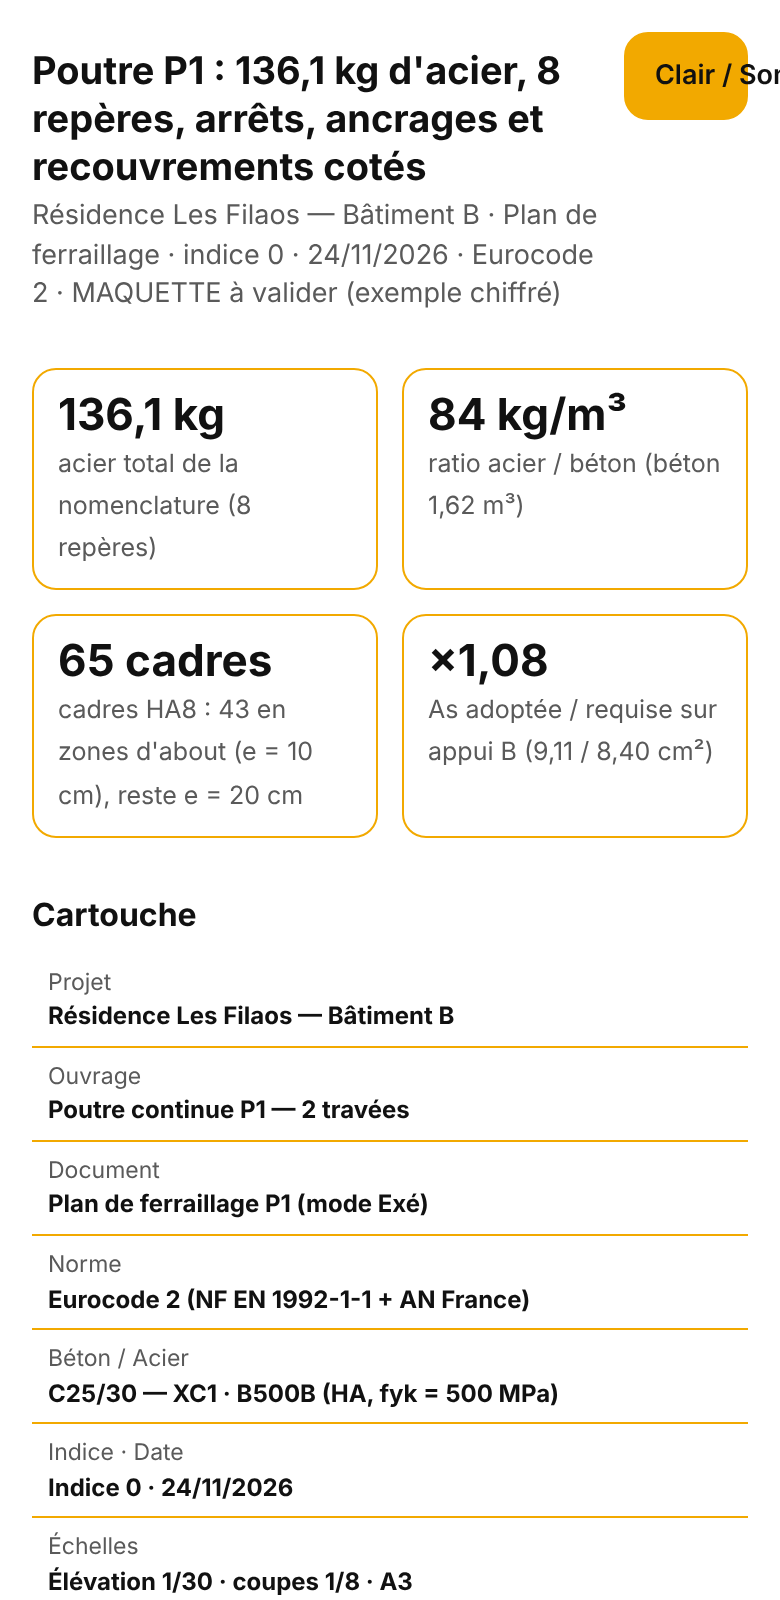
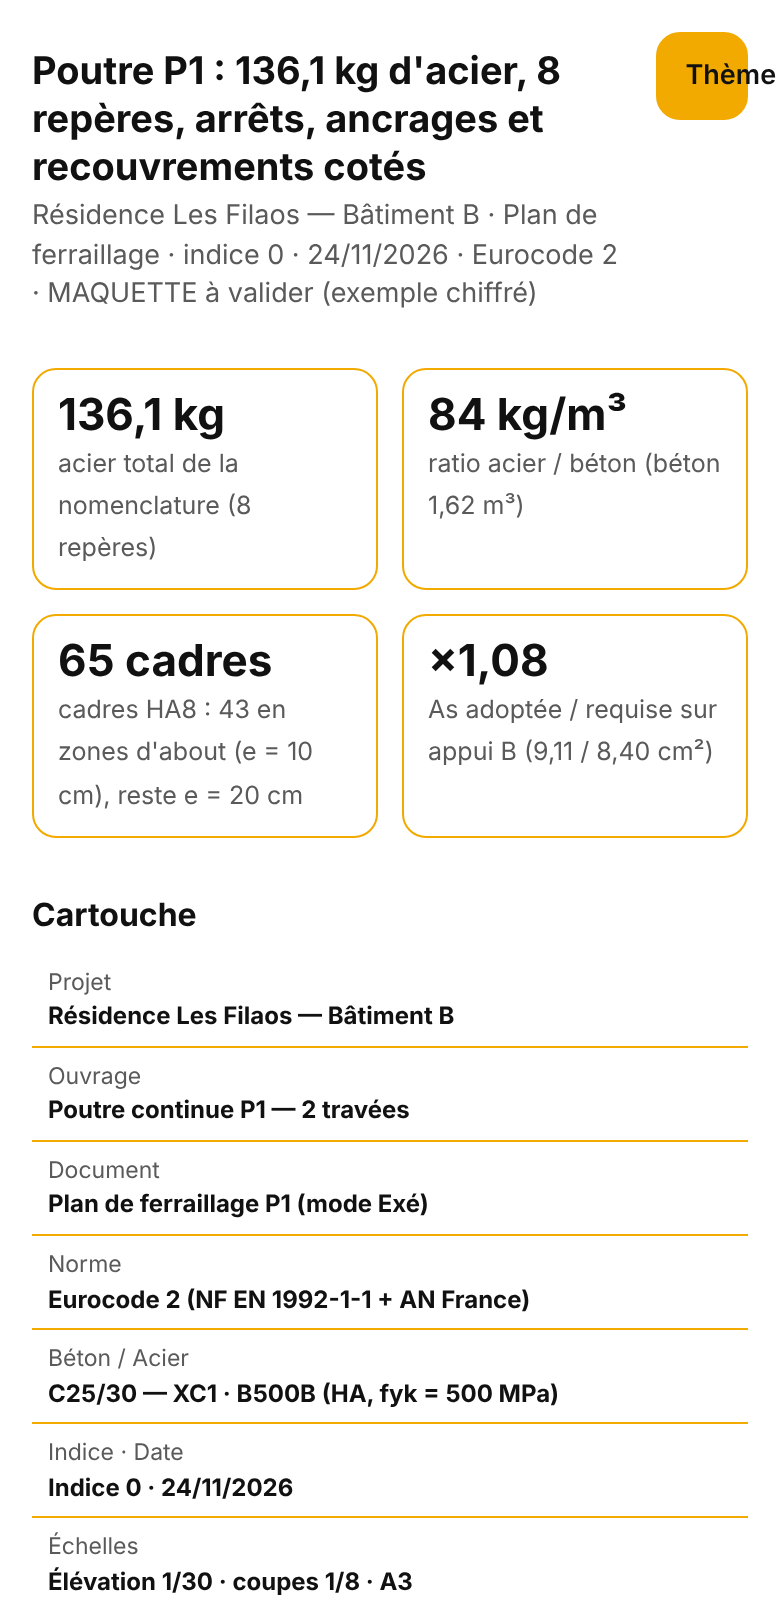
Maquette plan ferraillage : correctifs mise en page téléphone et légende
Claude-Session: https://claude.ai/code/session_019N1m6hzsAAfn8QDwh4MXMF

Changed region(s): [[0.0615, 0.1562, 0.4923, 0.1875], [0.8, 0.0, 1.0, 0.0938], [0.5231, 0.1562, 0.7077, 0.1875]]

diff --git a/maquettes/plan-ferraillage-poutre/plan-ferraillage-poutre.html b/maquettes/plan-ferraillage-poutre/plan-ferraillage-poutre.html
@@ -78,7 +78,7 @@ ol.notes{margin:0;padding-left:20px;font-size:13px} ol.notes li{margin:3px 0}
   <h1 id="titre"></h1>
   <p class="sub" id="soustitre"></p>
  </div>
- <button class="tbtn" id="theme" type="button" aria-label="Basculer clair / sombre">Clair / Sombre</button>
+ <button class="tbtn" id="theme" type="button" aria-label="Basculer clair / sombre">Thème</button>
 </div>
 <div class="kpis" id="kpis"></div>
 
